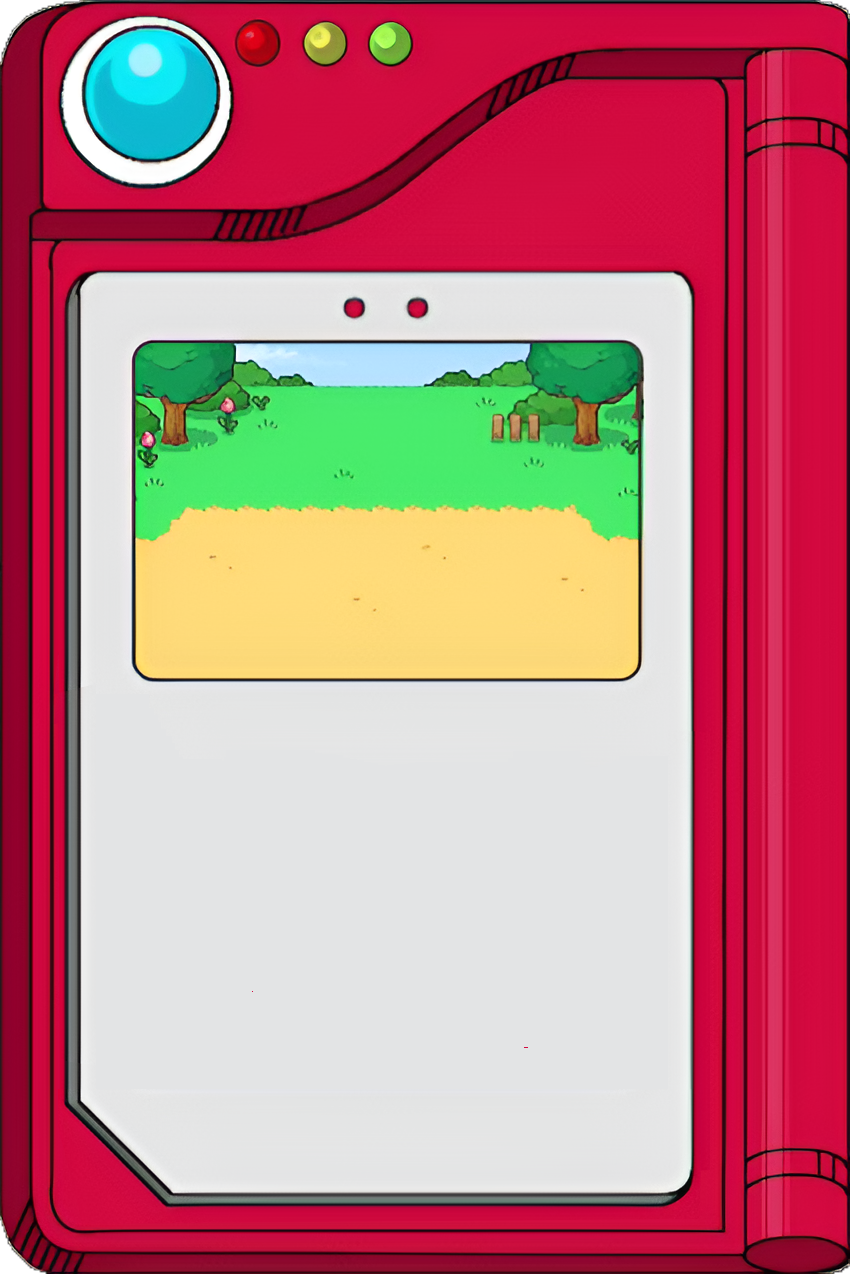
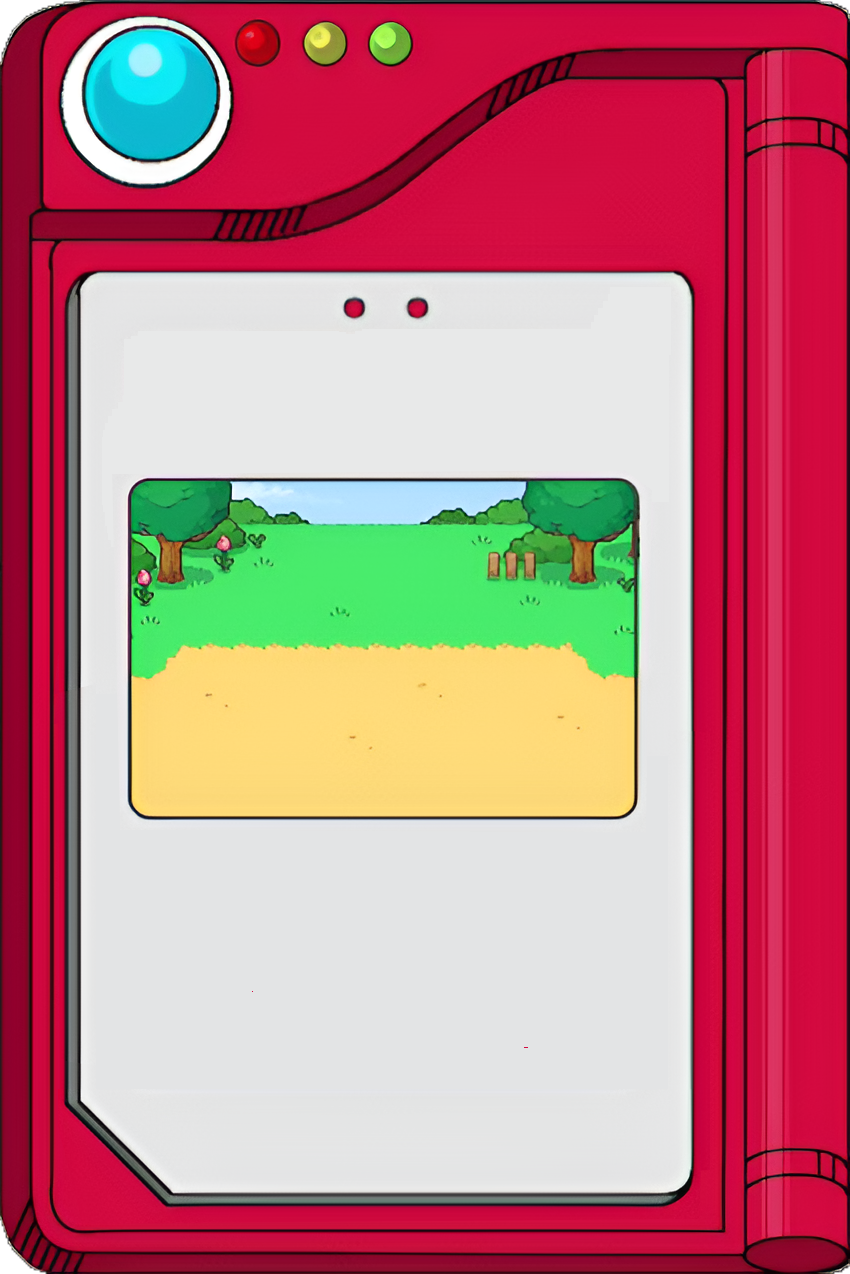
update project

Changed region(s): [[0.1224, 0.2449, 0.7647, 0.6429]]

diff --git a/style.css b/style.css
@@ -31,18 +31,18 @@ width: 17rem;
 
 .pokemon__image {
   position: absolute;
-  bottom: 52%;
+  bottom: 41%;
   left: 52%;
   transform: translate(-63%, 20%);
-  height: 25%;
+  height: 26%;
 }
 
 .pokemon__data {
   position: absolute;
   font-weight: 600;
   color: #aaa;
-  top: 54.5%;
-  right: 27%;
+  top: 64.5%;
+  right: 28%;
   font-size: clamp(8px, 5vw, 25px);
 }
 
@@ -53,9 +53,9 @@ width: 17rem;
 
 .form {
   position: absolute;
-  width: 65%;
-  top: 65%;
-  left: 13.5%;
+  width: 61%;
+  top: 28%;
+  left: 15.5%;
 }
 
 .input__search {
@@ -67,7 +67,7 @@ width: 17rem;
   font-weight: 600;
   color: #3a444d;
   font-size: clamp(8px, 5vw, 1rem);
-  box-shadow: -3px 4px 0 #888, -5px 7px 0 #333
+  box-shadow: -3px 4px 0 #888, -2px 7px 0 #333
 }
 
 .buttons {

diff --git a/index.html b/index.html
@@ -37,7 +37,7 @@
     </form>
 
     <div class="buttons">
-      <button class="button btn-prev">Prev &lt;</button>
+      <button class="button btn-prev">&lt; Prev</button>
       <button class="button btn-next">Next &gt;</button>
     </div>
 
